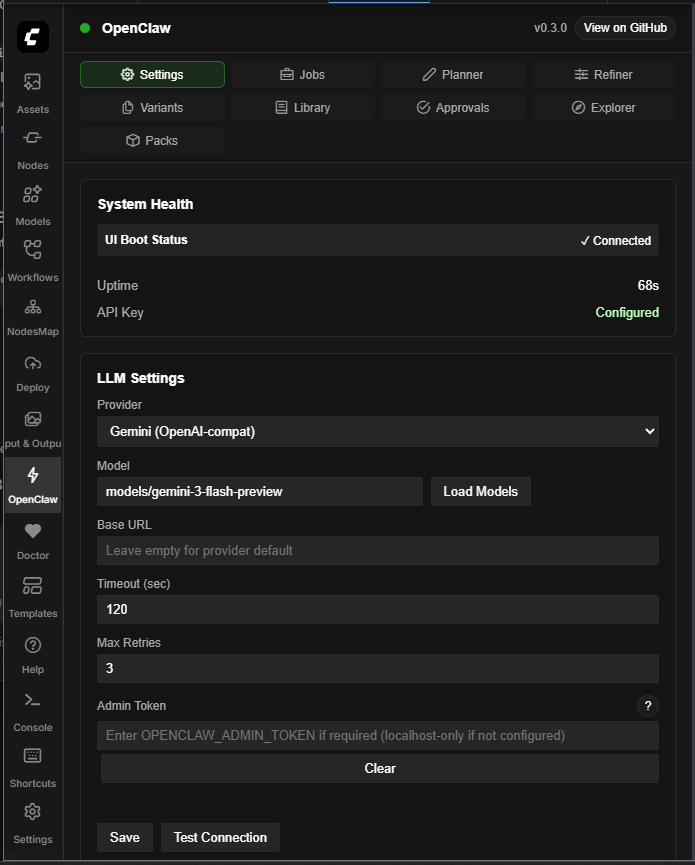
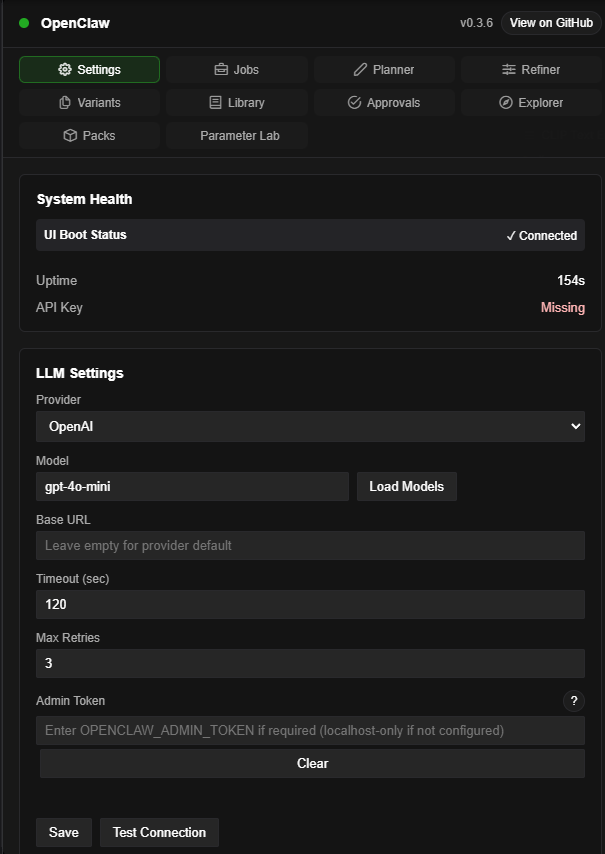
docs(readme): add sidebar modules matrix and TOC link for all 10 OpenClaw tabs

diff --git a/README.md b/README.md
@@ -206,6 +206,7 @@ This project is intentionally **not** a general-purpose assistant platform with 
   - [Set an Admin Token](#3-optional-recommended-set-an-admin-token)
 - [Nodes](#nodes)
 - [Extension UI](#extension-ui)
+  - [Sidebar Modules](#sidebar-modules)
 - [Operator UX Features](#operator-ux-features)
 - [API Overview](#api-overview)
   - [Observability](#observability-read-only)
@@ -311,6 +312,25 @@ See `web/docs/` for node usage notes.
 ![OpenClaw /sidebar ui example](assets/sidebar.png)
 
 The frontend lives in `web/` and is served by ComfyUI as an extension panel. It uses the backend routes below (preferring `/api/openclaw/*`).
+
+### Sidebar Modules
+
+![OpenClaw /sidebar ui example](assets/sidebar_modules.png)
+
+The OpenClaw sidebar includes these built-in tabs. Some tabs are capability-gated and may be hidden when the related backend feature is disabled.
+
+| Tab | What it does | Related docs |
+| --- | --- | --- |
+| `Settings` | Health/config/log visibility, provider/model setup, model connectivity checks, and optional localhost key storage. | [Quick Start](#quick-start-minimal), [LLM config](#llm-config-non-secret), [Troubleshooting](#troubleshooting) |
+| `Jobs` | Tracks prompt IDs, polls trace/history, and shows output previews for recent jobs. | [Observability](#observability-read-only), [Remote Control (Connector)](#remote-control-connector) |
+| `Planner` | Uses assist endpoint to generate structured prompt plans (positive/negative/params). | [Configure an LLM key](#1-configure-an-llm-key-for-plannerrefinervision-helpers), [Nodes](#nodes) |
+| `Refiner` | Refines existing prompts with optional image context and issue/goal input. | [Configure an LLM key](#1-configure-an-llm-key-for-plannerrefinervision-helpers), [Nodes](#nodes) |
+| `Variants` | Local helper for generating batch variant parameter JSON (seed/range-style sweeps). | [Nodes](#nodes), [Operator UX Features](#operator-ux-features) |
+| `Library` | Manages reusable prompt/params presets and provides pack-oriented library operations in one place. | [Presets](#presets-admin), [Packs](#packs-admin) |
+| `Approvals` | Lists approval gates and supports approve/reject operations. | [Triggers + approvals](#triggers--approvals-admin), [Remote Control (Connector)](#remote-control-connector) |
+| `Explorer` | Inventory/preflight diagnostics and snapshot/checkpoint troubleshooting workflows. | [Operator UX Features](#operator-ux-features), [Troubleshooting](#troubleshooting) |
+| `Packs` | Dedicated pack lifecycle tab for import/export/delete under admin boundary. | [Packs](#packs-admin) |
+| `Parameter Lab` | Runs bounded sweep/compare experiments, stores history, and replays parameters back into the graph. | [Operator UX Features](#operator-ux-features) |
 
 ## Operator UX Features
 
